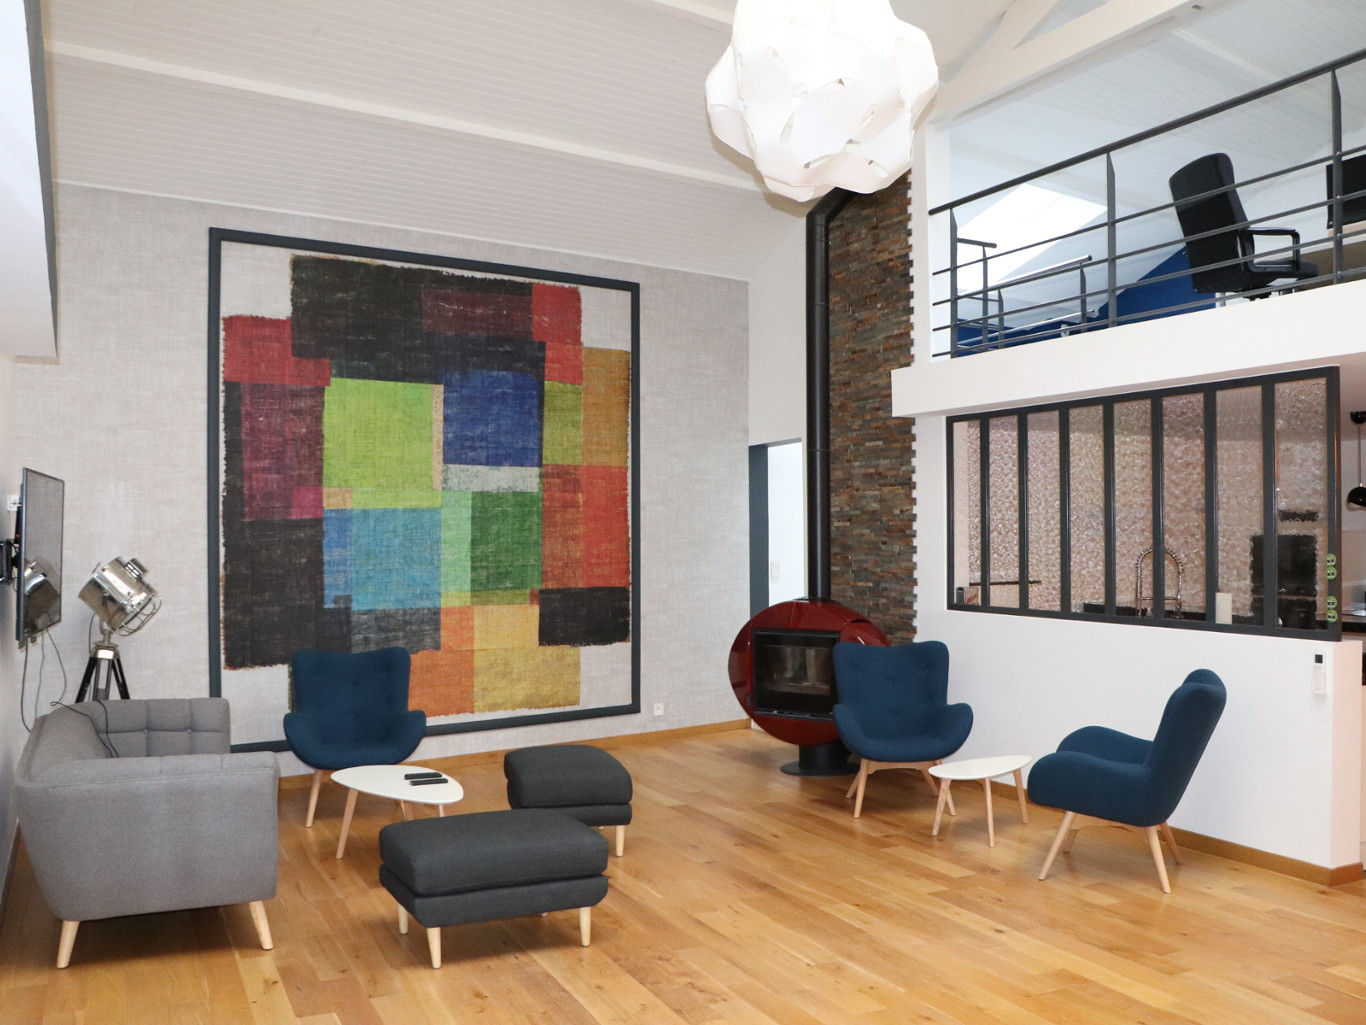
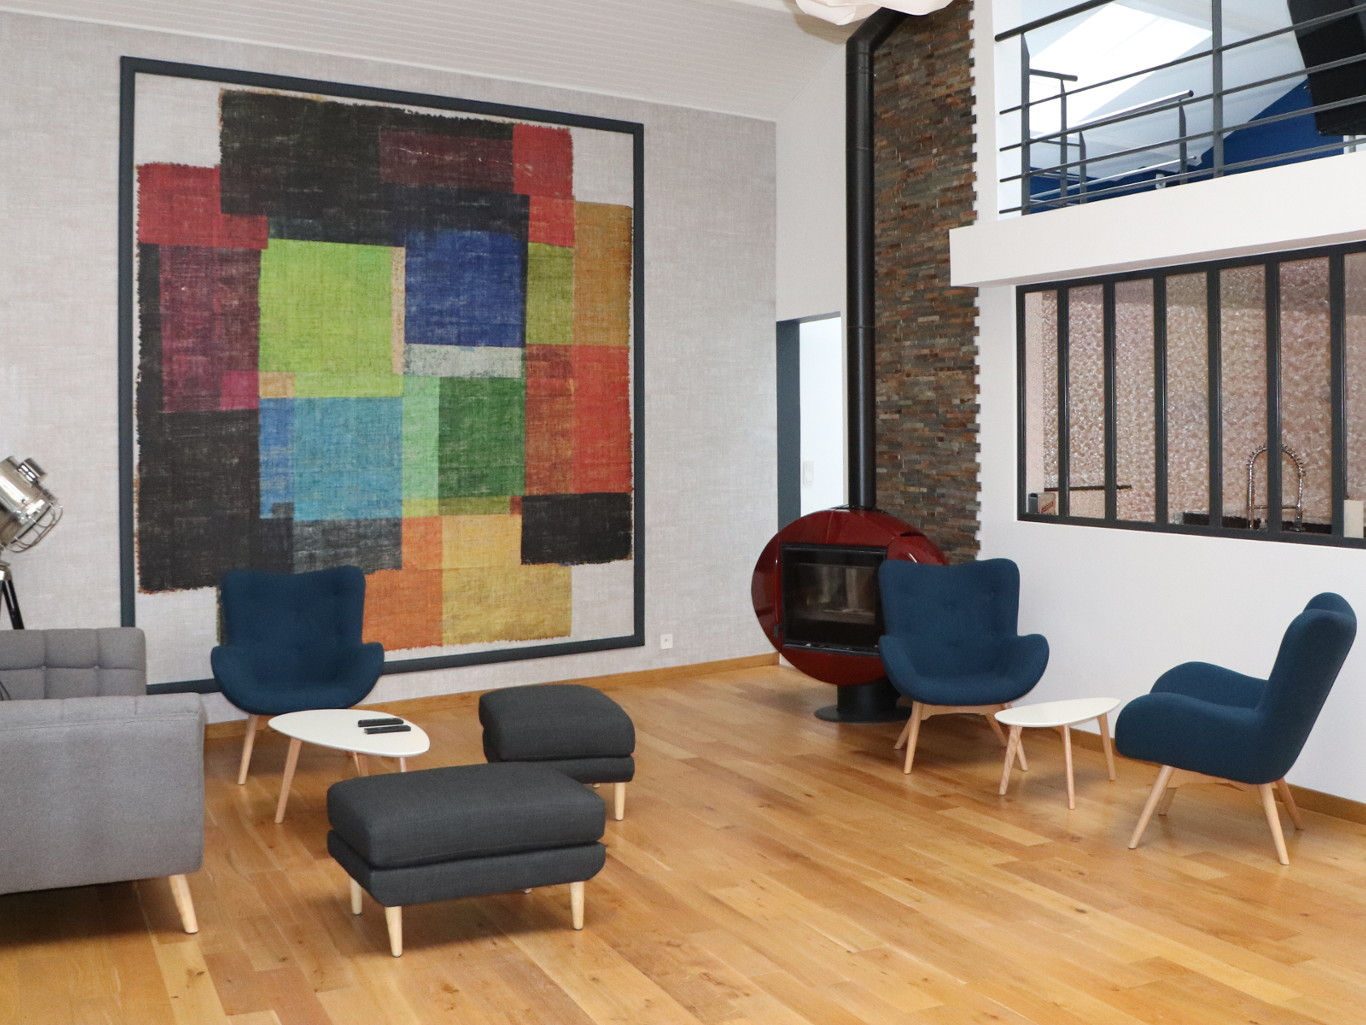
update image acceuil

diff --git a/index.html b/index.html
@@ -155,7 +155,7 @@
 
 
         <div class="uk-margin uk-text-left@s uk-text-center uk-slideshow"
-             uk-slideshow="minHeight: 600; maxHeight: 768; animation: pull; velocity: 1.4; autoplay: 1;">
+             uk-slideshow="minHeight: 600; maxHeight: 950; animation: pull; velocity: 1.4; autoplay: 1;">
           <div class="uk-position-relative">
 
             <ul class="uk-slideshow-items" style="min-height: 712.688px;">
@@ -225,17 +225,16 @@
                     class="uk-position-cover uk-flex uk-flex-left uk-flex-middle uk-container uk-section">
                   <div class="header-text el-overlay uk-panel uk-width-xlarge">
                     <div class="el-meta uk-margin uk-h6 uk-margin-remove-adjacent"
-                         uk-slideshow-parallax="y: 70,0,-100;">youhou
+                         uk-slideshow-parallax="y: 70,0,-100;">
                     </div>
                     <h1 class="el-title uk-margin uk-heading-primary uk-heading-line"
-                        uk-slideshow-parallax="x: 320,0,-250;"><span>A 6 minutes du centre ville
-Au pied du bus et à 700 m du tram</span>
+                        uk-slideshow-parallax="x: 320,0,-250;"><span>Proche du centre ville, Au pied du chronobus</span>
                     </h1>
 
 
                     <p><a class="el-link uk-button uk-button-default"
                           href="#"
-                          uk-slideshow-parallax="y: -60,0,190;">Blabla</a></p>
+                          uk-slideshow-parallax="y: -60,0,190;"></a></p>
 
                   </div>
                 </div>
@@ -261,16 +260,17 @@ Au pied du bus et à 700 m du tram</span>
                     class="uk-position-cover uk-flex uk-flex-left uk-flex-middle uk-container uk-section">
                   <div class="header-text el-overlay uk-panel uk-width-xlarge">
                     <div class="el-meta uk-margin uk-h6 uk-margin-remove-adjacent"
-                         uk-slideshow-parallax="y: 70,0,-100;">youhou 2
+                         uk-slideshow-parallax="y: 70,0,-100;">
+
                     </div>
                     <h1 class="el-title uk-margin uk-heading-primary uk-heading-line"
-                        uk-slideshow-parallax="x: 320,0,-250;"><span>on va le finir ce site 3</span>
+                        uk-slideshow-parallax="x: 320,0,-250;"><span>De grande salle de réunion</span>
                     </h1>
 
 
                     <p><a class="el-link uk-button uk-button-default"
                           href="#"
-                          uk-slideshow-parallax="y: -60,0,190;">blabla 3</a></p>
+                          uk-slideshow-parallax="y: -60,0,190;">location possible pour les extérieur, compris pour les locataires</a></p>
 
                   </div>
                 </div>
@@ -964,12 +964,7 @@ Au pied du bus et à 700 m du tram</span>
                 <h2 class="el-title uk-margin uk-h1"> Le Lieu </h2>
 
 
-                <div class="el-content uk-margin">Lorem ipsum dolor sit amet, sagittis
-                  vestibulum sed. Posuere est duis euismod interdum et malesuada. Pede
-                  tristique ut ultricies sed, at eget, cras tincidunt orci ac wisi nisl
-                  id. Massa in, vitae odio, ut vel amet sit. Dictum nulla nullam feugiat
-                  donec, nesciunt quis consequat nulla et. Nec ac vehicula, magna sagittis
-                  ipsum nec.
+                <div class="el-content uk-margin">Un endroit convivial dans un ancien hangar au décor design.
                 </div>
                 <!--<p><a class="el-link uk-button uk-button-default"
                       href="#">Learn more</a></p>-->
@@ -1109,12 +1104,9 @@ Au pied du bus et à 700 m du tram</span>
 
         <div class="uk-container">
 
-          <div class="uk-grid-large uk-margin uk-grid" uk-grid="">
+          <div class="uk-grid-large uk-margin uk-child-width-1-1 uk-child-width-1-3@m uk-grid-match uk-grid" uk-grid="">
             <div class="uk-width-expand@m uk-grid-item-match uk-flex-middle uk-first-column">
-
-
               <div class="uk-panel">
-
                 <div
                     class="uk-margin uk-width-xxlarge@m uk-margin-auto uk-text-left@m uk-text-center"
                     uk-scrollspy-class="uk-animation-slide-left-medium"
@@ -1124,15 +1116,10 @@ Au pied du bus et à 700 m du tram</span>
                       width="600" height="450" frameborder="0" style="border:0"
                       allowfullscreen></iframe>
                 </div>
-
               </div>
-
-
             </div>
 
             <div class="uk-width-expand@m uk-grid-item-match uk-flex-middle">
-
-
               <div class="uk-panel">
                 <div class="uk-margin uk-text-left@m uk-text-center uk-text-meta"
                      uk-scrollspy-class="" style="visibility: hidden;">Venez visiter
